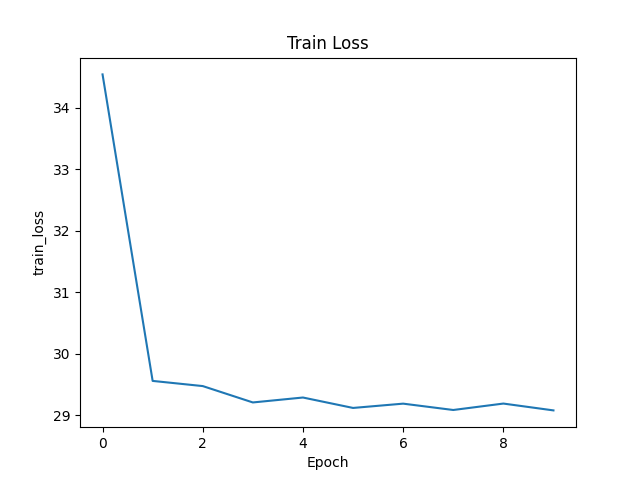
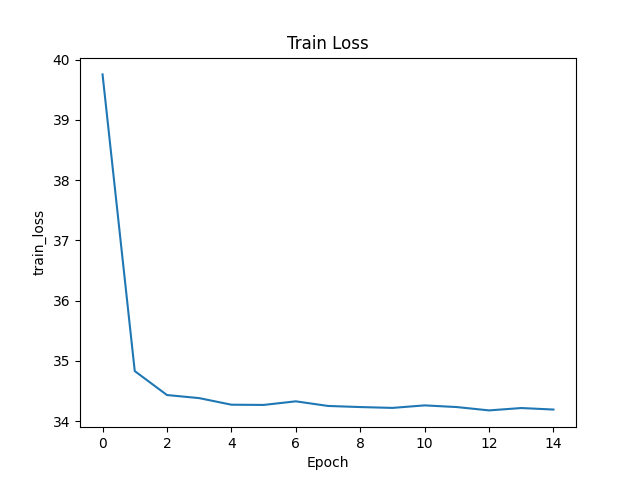
Optimized the efficiency of predict.py.  Fixed critical annotation errors in the validation masks.

diff --git a/predict.py b/predict.py
@@ -82,9 +82,9 @@ for f in os.listdir(ts_img_path):
             image_data = np.array(pil_image)
         except Exception as e:
             print(f"Error loading image with PIL: {e}, falling back to skimage")
-            image_data = io.imread(join(ts_img_path, f))
+            image_data = np.array(Image.open(join(ts_img_path, f)))
     
-        print(image_data.shape)
+        image_data = transform.resize(image_data, (400, 400), order=3, preserve_range=True, mode='constant', anti_aliasing=True)  # type is np.ndarray dtype is float64
 
         if image_data.shape[-1] > 3 and len(image_data.shape) == 3:
             image_data = image_data[:, :, :3]
@@ -94,11 +94,12 @@ for f in os.listdir(ts_img_path):
         lower_bound, upper_bound = np.percentile(image_data, 0.5), np.percentile(image_data, 99.5)
         image_data_pre = np.clip(image_data, lower_bound, upper_bound)
         image_data_pre = (image_data_pre - np.min(image_data_pre)) / (np.max(image_data_pre) - np.min(image_data_pre)) * 255.0
-        image_data_pre[image_data == 0] = 0
-        image_data_pre = transform.resize(image_data_pre, (400, 400), order=3, preserve_range=True, mode='constant', anti_aliasing=True)
-        image_data_pre = np.uint8(image_data_pre)
+        image_data_pre[image_data == 0] = 0 # there the image_data_pre is np type
         
-        H, W, _ = image_data_pre.shape
+        image_data_pre = np.uint8(image_data_pre)
+
+        
+
         sam_transform = ResizeLongestSide(sam_model.image_encoder.img_size)
         resize_img = sam_transform.apply_image(image_data_pre)
         resize_img_tensor = torch.as_tensor(resize_img.transpose(2, 0, 1)).to(device)
@@ -113,7 +114,8 @@ for f in os.listdir(ts_img_path):
             box = sam_trans.apply_boxes(boxes, (400,400))                                                
             box_torch = torch.as_tensor(box, dtype=torch.float, device=device)            
         else:            
-            box_torch = None                
+            box_torch = None     
+
         sparse_embeddings, dense_embeddings = sam_model.prompt_encoder(
             points=None,
             boxes=box_torch,
@@ -133,29 +135,36 @@ for f in os.listdir(ts_img_path):
         
         medsam_seg=cv2.resize(medsam_seg,(400,400))       
         
+        ####################################
+        medsam_seg[medsam_seg > 0] = 255
+        medsam_seg = Image.fromarray(medsam_seg) # 所有输出的图片的位数都是8位的png图像
+        medsam_seg.save(path_out + os.path.splitext(f)[0] + '.png') #为什么会少四张图
+
+        ####################################
         
-        pred = cv2.Canny(cv2.resize((medsam_seg != 0).astype(np.uint8) * 255, (400, 400)), 100, 200)
+        # pred = cv2.Canny(cv2.resize((medsam_seg != 0).astype(np.uint8) * 255, (400, 400)), 100, 200)
         
-        for i in range(pred.shape[0]):
-            for j in range(pred.shape[1]):
-                if pred[i, j] != 0:
-                    img[max(i - 1, 0):min(i + 2, 400), max(j - 1, 0):min(j + 2, 400), :] = [0, 0, 255]
 
-        image1 = Image.fromarray(medsam_seg)
-        image2 = Image.fromarray(img)
+        # for i in range(pred.shape[0]):
+        #     for j in range(pred.shape[1]):
+        #         if pred[i, j] != 0:
+        #             img[max(i - 1, 0):min(i + 2, 400), max(j - 1, 0):min(j + 2, 400), :] = [0, 0, 255]
 
-        image1 = image1.resize(image2.size).convert("RGBA")
-        image2 = image2.convert("RGBA")
-        data1 = image1.getdata()
+        # image1 = Image.fromarray(medsam_seg)
+        # image2 = Image.fromarray(img)
 
-        new_image = Image.new("RGBA", image2.size)
-        new_data = [(0, 0, 128, 96) if pixel1[0] != 0 else (0, 0, 0, 0) for pixel1 in data1]
+        # image1 = image1.resize(image2.size).convert("RGBA")
+        # image2 = image2.convert("RGBA")
+        # data1 = image1.getdata()
 
-        new_image.putdata(new_data)
-        if boxes is not None:              
-            draw = ImageDraw.Draw(image2)
-            draw.rectangle([boxes[0],boxes[1],boxes[2],boxes[3]],fill=None, outline=(0, 255, 0), width=5)  # 用红色绘制方框的边框，线宽为2
-        image2.paste(new_image, (0, 0), mask=new_image)
-        image2.save(path_out + f.split('.')[0] + '.png')
-        print(f)
+        # new_image = Image.new("RGBA", image2.size)
+        # new_data = [(0, 0, 128, 96) if pixel1[0] != 0 else (0, 0, 0, 0) for pixel1 in data1]
+
+        # new_image.putdata(new_data)
+        # if boxes is not None:              
+        #     draw = ImageDraw.Draw(image2)
+        #     draw.rectangle([boxes[0],boxes[1],boxes[2],boxes[3]],fill=None, outline=(0, 255, 0), width=5)  # 用红色绘制方框的边框，线宽为2
+        # image2.paste(new_image, (0, 0), mask=new_image)
+        # image2.save(path_out + f.split('.')[0] + '.png')
+        # print(f)
         

diff --git a/pre_tongue_fast.py b/pre_tongue_fast.py
@@ -17,7 +17,6 @@ parser.add_argument('-gt', '--gt_path', type=str, required=True, help='path to t
 parser.add_argument('-o', '--npz_path', type=str, required=True, help='path to save the npz files')
 parser.add_argument('--data_name', type=str, default='tongue', help='dataset name')
 parser.add_argument('--image_size', type=int, default=400, help='image size')
-parser.add_argument('--img_name_suffix', type=str, default='.jpg', help='image name suffix')
 parser.add_argument('--label_id', type=int, default=1, help='label id')
 parser.add_argument('--model_type', type=str, default='vit_b', help='model type')
 parser.add_argument('--checkpoint', type=str, default='./pretrained_model/sam.pth', help='checkpoint')
@@ -83,7 +82,7 @@ def process_single_image(img_path, gt_path, image_name, gt_name, image_size, lab
         # gt_data = gt_data[top:top+crop_size, left:left+crop_size]
 
         # Random rotation (same angle for image and mask)
-        angle = np.random.uniform(-135, 135)
+        angle = np.random.uniform(-45, 45)
         image_data, gt_data = rotate_image_and_mask(image_data, gt_data, angle)
 
         image_data = cv2.resize(image_data, (image_size, image_size))
@@ -95,7 +94,7 @@ def process_single_image(img_path, gt_path, image_name, gt_name, image_size, lab
     
     # Binarize gt 
     gt_data = (gt_data > 0).astype(np.uint8) # fixed this serious bug
-    # print(f"Post-Binarization unique: {np.unique(gt_data)}")
+    # print(f"Post-Binarization unique: {np.unique(gt_data)}") 最大最小值应该是0和255 但只会有0和1 因为上面已经做了二值化了
     
     # Ensure image is RGB
     if len(image_data.shape) == 2:
@@ -140,7 +139,11 @@ def deal_fast(img_path, gt_path, sam_model, sam_transform):
     batch_indices = []
     
     for idx, gt_name in enumerate(tqdm(names, desc="Loading images")):
-        image_name = gt_name.split('.')[0] + args.img_name_suffix
+        if gt_name.split('.')[-1] == 'bmp':
+            image_name = gt_name.split('.')[0] + '.bmp'
+        elif gt_name.split('.')[-1] == 'png':
+             image_name = gt_name.split('.')[0] + '.jpg' # 这个是跟据我的观察得到的规律
+
         try:
             image_data, gt_data, box = process_single_image(
                 img_path, gt_path, image_name, gt_name, 

diff --git a/train.py b/train.py
@@ -26,7 +26,7 @@ import random
 import math
 from functools import partial
 ##############################################################################################################
-num_epochs = 10
+num_epochs = 15
 ts_npz_path='./data/test_npz/'
 npz_tr_path = './data/train_npz/'
 model_type = 'vit_b'
